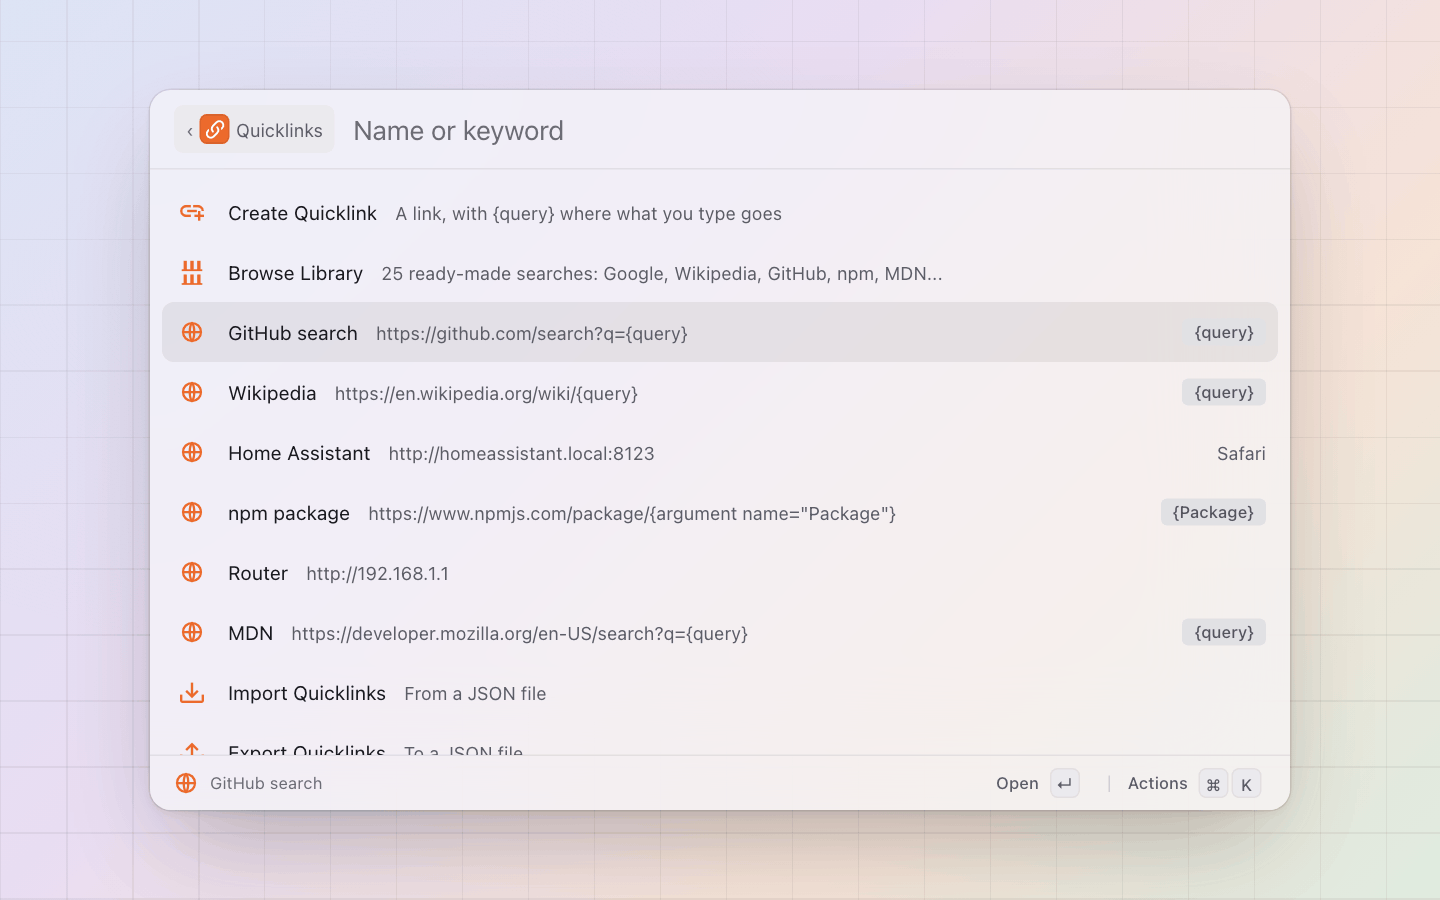
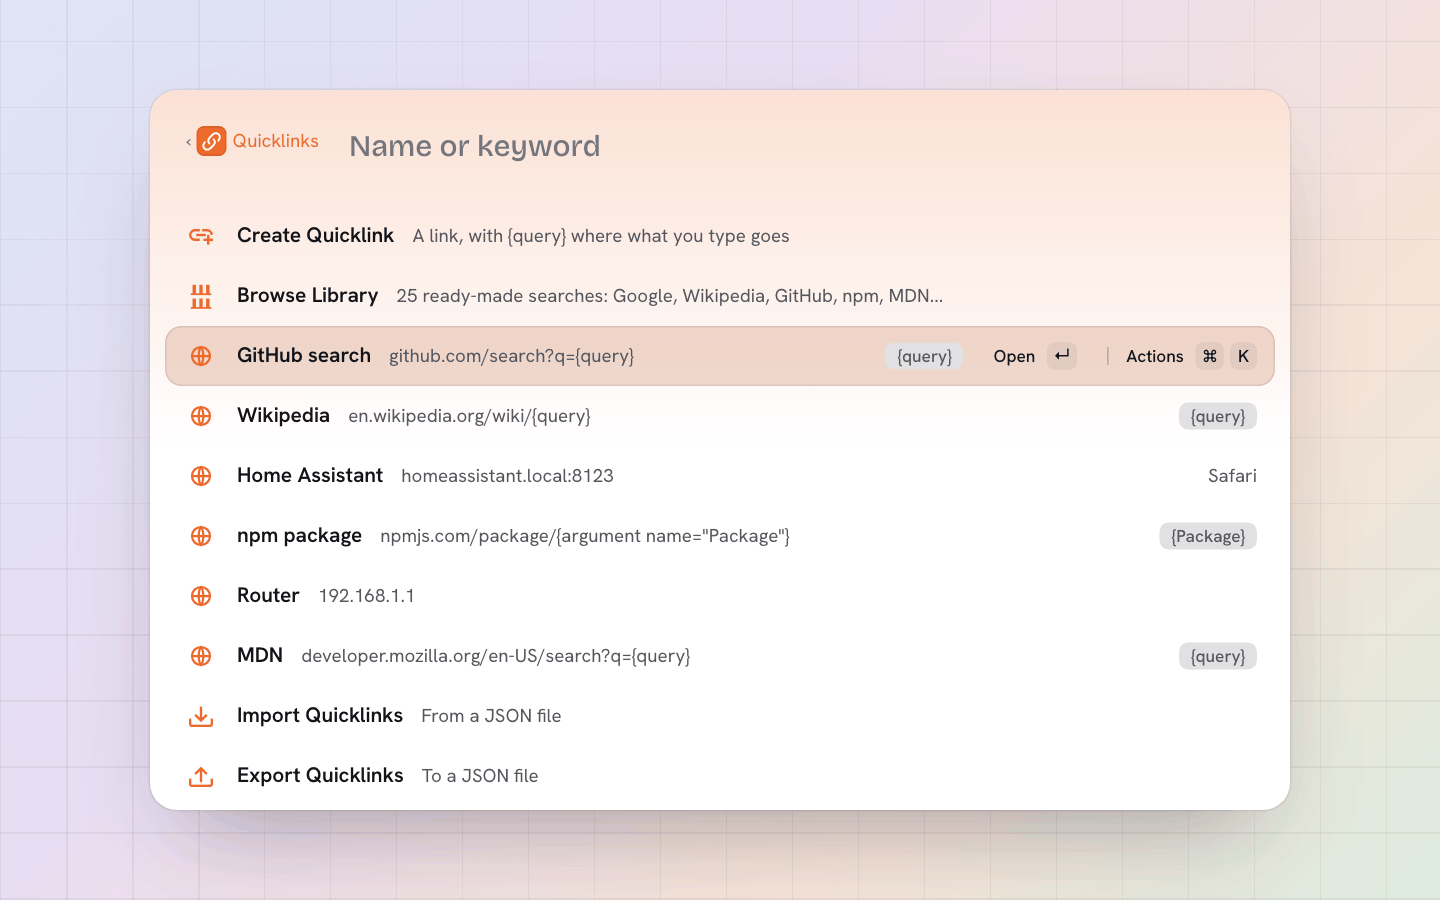
quicklinks: subtitles without https:// (the tag says what is asked); the inline Open row drops the url its title says; details lead with where the link is kept over its name, what it asks for and opens in as chips

diff --git a/host/test/extensions/quicklinks.test.ts b/host/test/extensions/quicklinks.test.ts
@@ -113,7 +113,7 @@ describe("quicklinks at the root", () => {
   test("a typed web address lists one inline Open row (favicon from the url), picked by its id; a word does not match", async () => {
     const inline = (q: string) => host.request<{ extension: string; items: Item[] }[]>("inline", { query: q }).then((r) => r.find((s) => s.extension === "quicklinks")?.items);
     const rows = await inline("docs.rs/serde");
-    expect(rows).toEqual([{ id: "open:https://docs.rs/serde", name: "Open docs.rs/serde", subtitle: "https://docs.rs/serde", url: "https://docs.rs/serde", actions: [{ id: "open", title: "Open", multi: true }, { id: "copy", title: "Copy URL", shortcut: "cmd+c", multi: true }] }]);
+    expect(rows).toEqual([{ id: "open:https://docs.rs/serde", name: "Open docs.rs/serde", url: "https://docs.rs/serde", actions: [{ id: "open", title: "Open", multi: true }, { id: "copy", title: "Copy URL", shortcut: "cmd+c", multi: true }] }]);
     expect((await inline("https://x.io/a?b"))![0].id).toBe("open:https://x.io/a?b");
     expect(await inline("github")).toBeUndefined();
     expect(await pick("open:https://docs.rs/serde")).toEqual({ open: "https://docs.rs/serde" });
@@ -137,18 +137,19 @@ describe("quicklinks", () => {
     expect(items[0]).toMatchObject({ name: "Create Quicklink", icon: "\u{f0c94}", actions: [{ id: "create", title: "Create quicklink" }] });
     expect(items[1]).toMatchObject({ name: "Browse Library", icon: "\u{f0ba9}", actions: [{ id: "library", title: "Browse library" }] });
     for (const i of items) expect(i.icon || i.url).toBeTruthy();
-    expect(items[2]).toMatchObject({ name: "GitHub search", subtitle: "https://github.com/search?q={query}", url: "https://github.com/search?q={query}", keywords: ["gh"], accessories: [{ tag: "{query}" }], args: [{ id: "query", placeholder: "Query", required: true }] });
+    expect(items[2]).toMatchObject({ name: "GitHub search", subtitle: "github.com/search?q={query}", url: "https://github.com/search?q={query}", keywords: ["gh"], accessories: [{ tag: "{query}" }], args: [{ id: "query", placeholder: "Query", required: true }] });
     expect(items[3].args).toBeUndefined();
     expect(items[2].icon).toBeUndefined();
     expect(items[2].actions!.map((a) => a.id)).toEqual(["open", "copy", "edit", "delete"]);
     expect(items[2].actions![3]).toMatchObject({ style: "destructive", confirm: "Delete from your quicklinks?", multi: true });
     // Over marked rows: open each, copy a url a line, delete them all; editing stays one link's.
     expect(items[2].actions!.filter((a) => a.multi).map((a) => a.id)).toEqual(["open", "copy", "delete"]);
+    expect(items[2].detail).toMatchObject({ caption: "Your quicklinks", title: "GitHub search", chips: [{ text: "asks for query", color: "blue" }], metadata: [{ label: "Keywords", tags: [{ text: "gh" }] }] });
     expect(items[2].detail!.markdown).toContain("https://github.com/search?q={query}");
     expect(items[3].accessories).toBeUndefined();
-    // The app it opens with is an accessory and a metadata line; `{selection}` is no tag (nothing is asked for).
+    // The app it opens with is an accessory and a chip; `{selection}` is no tag (nothing is asked for).
     expect(items[4].accessories).toEqual([{ text: "Firefox" }]);
-    expect(items[4].detail!.metadata).toContainEqual({ label: "Opens with", value: "Firefox" });
+    expect(items[4].detail!.chips).toEqual([{ text: "opens in Firefox" }]);
     expect(items[5]).toMatchObject({ name: "Grafana", url: "http://grafana.lan", keywords: ["graphs"] });
     expect(items[5].actions!.map((a) => a.id)).toEqual(["open", "copy"]);
     expect(items[6].name).toBe("http://bare");

diff --git a/extensions/quicklinks/index.ts b/extensions/quicklinks/index.ts
@@ -120,6 +120,9 @@ const byName = async (name: string) => {
   return links.find((l) => l.name.toLowerCase() === n) ?? links.find((l) => l.keywords?.some((k) => k.toLowerCase() === n));
 };
 
+/** A url as a row says it: no `https://`, no `www.` (the favicon and the tag say the rest). */
+const bare = (url: string) => url.replace(/^https?:\/\/(www\.)?/i, "");
+
 /** A `{query}` link's typed arguments: one per placeholder name, typed in the search bar on Enter; every one is needed for the url to mean anything. */
 const argsOf = (l: Link): Arg[] => placeholders(l.url).map((name) => ({ id: name, placeholder: name === "query" ? "Query" : name, required: true }));
 
@@ -129,18 +132,17 @@ function row(l: Link): Item {
   return {
     id: l.id,
     name: l.name,
-    subtitle: l.url,
+    subtitle: bare(l.url),
     url: l.url,
     keywords: l.keywords,
     accessories: l.app || args.length ? [...(l.app ? [{ text: l.app }] : []), ...args.map((a) => ({ tag: `{${a.id}}` }))] : undefined,
+    // A document: where it is kept over its name, what it asks for and opens with as chips, the url, the words that find it.
     detail: {
-      markdown: `# ${l.name}\n\n\`\`\`\n${l.url}\n\`\`\``,
-      metadata: [
-        ...(args.length ? [{ label: "Asks for", value: args.map((a) => a.id).join(", ") }] : []),
-        ...(l.keywords?.length ? [{ label: "Keywords", tags: l.keywords.map((text) => ({ text })) }] : []),
-        ...(l.app ? [{ label: "Opens with", value: l.app }] : []),
-        { label: "Source", value: readOnly ? "Import file" : "Your quicklinks" },
-      ],
+      caption: readOnly ? "From the import file" : "Your quicklinks",
+      title: l.name,
+      ...((args.length || l.app) && { chips: [...args.map((a) => ({ text: `asks for ${a.id}`, color: "blue" as const })), ...(l.app ? [{ text: `opens in ${l.app}` }] : [])] }),
+      markdown: `\`\`\`\n${l.url}\n\`\`\``,
+      ...(l.keywords?.length && { metadata: [{ label: "Keywords", tags: l.keywords.map((text) => ({ text })) }] }),
     },
     ...(args.length && { args }),
     actions: readOnly ? [OPEN, COPY] : [OPEN, COPY, EDIT, DELETE],
@@ -234,7 +236,7 @@ async function libraryRows(): Promise<Item[]> {
   return LIBRARY.map((e, i) => ({
     id: libraryId(i),
     name: e.name,
-    subtitle: e.url,
+    subtitle: bare(e.url),
     url: e.url,
     keywords: e.keywords,
     accessories: have.has(e.url) ? [{ tag: "added", color: "green" }] : undefined,
@@ -301,7 +303,7 @@ export default {
           const q = (query ?? "").trim();
           if (!URL_RE.test(q)) return [];
           const url = asUrl(q);
-          return [{ id: OPEN_ID + url, name: `Open ${url.replace(/^https?:\/\//, "")}`, subtitle: url, url, actions: [OPEN, COPY] }];
+          return [{ id: OPEN_ID + url, name: `Open ${url.replace(/^https?:\/\//, "")}`, url, actions: [OPEN, COPY] }];
         }
         // The drill-in for a placeholder link (a stored one, or a library entry searched without adding): one row, the url filled with what is typed.
         const args = ctx?.args as { link?: string; library?: string } | undefined;

diff --git a/extensions/quicklinks/README.md b/extensions/quicklinks/README.md
@@ -14,7 +14,7 @@ url are filled without asking (the text selected in the app in front, the
 newest copy, or the paths selected in Finder; the SDK's placeholders,
 `{date}` and the rest included, each percent-encoded), so
 `https://translate.google.com/?text={selection}` opens in one Enter. The row shows the placeholder as a tag, the browser
-it opens with when one is named, and the url as its subtitle; the icon is
+it opens with when one is named, and the url (without `https://`) as its subtitle; the icon is
 the site's favicon; keywords are extra words the search matches.
 
 The palette is indexed, so a quicklink's name and keywords find it from
@@ -29,8 +29,9 @@ the root, and the rows after the list are its tools:
 
 A url the opener could not take (no scheme, not a path) is refused with
 the message under the field; a path that cannot be read or written, the
-same. The detail pane (`cmd+i`) shows the url in a code block, what the
-link asks for, its keywords and where it came from.
+same. The detail pane (`cmd+i`) leads with where the link is kept over
+its name, what it asks for and the browser it opens in as chips, then the
+url in a code block and its keywords.
 
 ## Keyboard
 

diff --git a/docs/palettes.md b/docs/palettes.md
@@ -760,7 +760,7 @@ are filled without asking (the SDK's placeholders, [Snippets](#snippets-snippets
 below has the grammar; each value percent-encoded), so
 `https://translate.google.com/?text={selection}` opens in one Enter. The
 row shows the placeholder as a tag, the browser it opens with when one
-is named, and the url as its subtitle; the icon is the site's favicon.
+is named, and the url (without `https://`) as its subtitle; the icon is the site's favicon.
 
 The root row **Create Quicklink** opens a form (name, url, keywords, and
 **Open with**: the default browser or one of the browsers installed:
